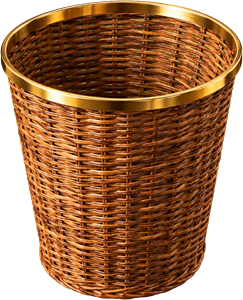
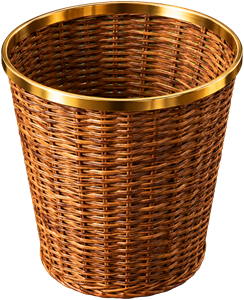
Basket with 0-4 paper pictures and spike moved into the archive bar (72px); basket has a wider touch box, spike only animates

diff --git a/src/components/trash/TrashBin.tsx b/src/components/trash/TrashBin.tsx
@@ -1,86 +1,83 @@
 import React from 'react';
 
-import binImage from '../../assets/bin.png';
+import bin0 from '../../assets/bin.png';
+import bin1 from '../../assets/bin-1.png';
+import bin2 from '../../assets/bin-2.png';
+import bin3 from '../../assets/bin-3.png';
+import bin4 from '../../assets/bin-4.png';
 
 interface TrashBinProps {
   count: number;
   /** Changes every time a card lands in the bin; replays the little bump. */
   bumpKey: number;
   onOpen: () => void;
+  /** Height of the picture in px; the touch box is wider and as tall as the bar. */
+  pictureHeight: number;
   style?: React.CSSProperties;
 }
 
-// The picture is 243 x 300 units. Crumpled paper balls peek out of the mouth,
-// above the front rim, up to three of them.
-const BALLS = [
-  { cx: 92, cy: 48, r: 21 },
-  { cx: 150, cy: 44, r: 22 },
-  { cx: 121, cy: 30, r: 17 },
-];
+// The picture is 244 x 300 units. One picture per number of papers in the
+// basket: empty, one, two, three, four or more.
+const BIN_IMAGES = [bin0, bin1, bin2, bin3, bin4];
 
 /**
- * The waste-paper basket standing on the table. Thrown-away cards fly into it
- * and it fills with crumpled paper; pressing it opens what is inside.
- * `data-trash-bin` lets the throw animation aim at it.
+ * The waste-paper basket standing in the archive bar's left end. Thrown-away
+ * cards fly into it and it fills with crumpled paper; pressing it opens what
+ * is inside. The touch box is wider than the picture and sits above the bar,
+ * so a press near the basket does not open the archive by mistake.
+ * `data-trash-bin` lets the throw animation aim at the picture.
  */
 export const TrashBin: React.FC<TrashBinProps> = ({
   count,
   bumpKey,
   onOpen,
+  pictureHeight,
   style,
 }) => (
   <button
     type="button"
-    data-trash-bin=""
     onClick={onOpen}
     onTouchStart={() => undefined}
     aria-label={count > 0 ? `Корзина: ${count}` : 'Корзина пуста'}
     title="Корзина"
-    className="trash-bin absolute z-30 h-[68px] w-[55px] cursor-pointer border-0 bg-transparent p-0 sm:h-[78px] sm:w-[63px]"
+    className="absolute z-[35] flex cursor-pointer items-center justify-center border-0 bg-transparent p-0"
     style={style}
   >
     <span
       key={bumpKey}
-      className={`block h-full w-full${bumpKey > 0 ? ' trash-bump' : ''}`}
+      data-trash-bin=""
+      className={`trash-bin block${bumpKey > 0 ? ' trash-bump' : ''}`}
+      style={{ height: pictureHeight, width: (pictureHeight * 244) / 300 }}
     >
       <svg
-        viewBox="0 0 243 300"
+        viewBox="0 0 244 300"
         className="h-full w-full overflow-visible"
         aria-hidden="true"
       >
         {/* Contact shadow on the table. */}
-        <ellipse cx="121" cy="292" rx="88" ry="12" fill="rgba(0,0,0,0.4)" />
+        <ellipse cx="122" cy="292" rx="88" ry="12" fill="rgba(0,0,0,0.4)" />
 
-        <image href={binImage} x="0" y="0" width="243" height="300" />
-
-        {BALLS.slice(0, Math.min(count, BALLS.length)).map((ball) => (
-          <g key={`${ball.cx}-${ball.cy}`}>
-            <circle
-              cx={ball.cx}
-              cy={ball.cy}
-              r={ball.r}
-              fill="#EFE6D6"
-              stroke="rgba(90,70,50,0.4)"
-              strokeWidth="2.4"
-            />
-            <path
-              d={`M ${ball.cx - ball.r * 0.6} ${ball.cy - 3} l ${ball.r * 0.5} ${ball.r * 0.4} l ${ball.r * 0.3} -${ball.r * 0.7} l ${ball.r * 0.5} ${ball.r * 0.5}`}
-              fill="none"
-              stroke="rgba(90,70,50,0.45)"
-              strokeWidth="2.4"
-              strokeLinejoin="round"
-            />
-          </g>
+        {/* All the pictures stay loaded; the one for the count shows. */}
+        {BIN_IMAGES.map((image, index) => (
+          <image
+            key={index}
+            href={image}
+            x="0"
+            y="0"
+            width="244"
+            height="300"
+            opacity={index === Math.min(count, BIN_IMAGES.length - 1) ? 1 : 0}
+          />
         ))}
 
         {count > 0 && (
           <g>
-            <circle cx="205" cy="246" r="34" fill="#F7F2E8" stroke="rgba(60,45,30,0.4)" strokeWidth="2.5" />
+            <circle cx="206" cy="244" r="46" fill="#F7F2E8" stroke="rgba(60,45,30,0.45)" strokeWidth="3" />
             <text
-              x="205"
-              y="259"
+              x="206"
+              y="260"
               textAnchor="middle"
-              fontSize="38"
+              fontSize="52"
               fontWeight="700"
               fill="#3F3932"
               fontFamily="Lora, Georgia, serif"

diff --git a/src/components/table/CouponSpike.tsx b/src/components/table/CouponSpike.tsx
@@ -7,7 +7,8 @@ interface CouponSpikeProps {
   slipPapers: string[];
   /** Changes every time a coupon lands on the spike; replays the bump. */
   bumpKey: number;
-  onOpen: () => void;
+  /** Height of the picture in px. */
+  pictureHeight: number;
   style?: React.CSSProperties;
 }
 
@@ -26,32 +27,32 @@ const SLIP_HEIGHT = 30;
 /**
  * A brass receipt spike standing on the table, opposite the waste basket.
  * Every coupon torn off today is speared on it in its card's colour, so the
- * day's work piles up visibly; pressing it opens the archive.
+ * day's work piles up visibly. It stands in the archive bar's right end and
+ * takes no presses itself: the bar under it opens the archive.
  * `data-coupon-spike` lets the flying coupon aim at it.
  */
 export const CouponSpike: React.FC<CouponSpikeProps> = ({
   slipPapers,
   bumpKey,
-  onOpen,
+  pictureHeight,
   style,
 }) => {
   const count = slipPapers.length;
   const slips = slipPapers.slice(0, MAX_SLIPS).reverse();
 
   return (
-    <button
-      type="button"
+    <div
       data-coupon-spike=""
-      onClick={onOpen}
-      onTouchStart={() => undefined}
+      role="img"
       aria-label={
-        count > 0
-          ? `Сегодня выполнено: ${count}. Открыть архив`
-          : 'Сегодня ещё ничего. Открыть архив'
+        count > 0 ? `Сегодня выполнено: ${count}` : 'Сегодня ещё ничего'
       }
-      title="Сделано сегодня"
-      className="trash-bin absolute z-30 h-[92px] w-[45px] cursor-pointer border-0 bg-transparent p-0 sm:h-[104px] sm:w-[51px]"
-      style={style}
+      className="trash-bin pointer-events-none absolute z-[35]"
+      style={{
+        height: pictureHeight,
+        width: (pictureHeight * 224) / 460,
+        ...style,
+      }}
     >
       <span
         key={bumpKey}
@@ -103,12 +104,12 @@ export const CouponSpike: React.FC<CouponSpikeProps> = ({
 
           {count > 0 && (
             <g>
-              <circle cx="186" cy="396" r="36" fill="#F7F2E8" stroke="rgba(60,45,30,0.4)" strokeWidth="2.5" />
+              <circle cx="176" cy="392" r="58" fill="#F7F2E8" stroke="rgba(60,45,30,0.4)" strokeWidth="2.5" />
               <text
-                x="186"
-                y="409"
+                x="176"
+                y="414"
                 textAnchor="middle"
-                fontSize="40"
+                fontSize="72"
                 fontWeight="700"
                 fill="#3F3932"
                 fontFamily="Lora, Georgia, serif"
@@ -119,6 +120,6 @@ export const CouponSpike: React.FC<CouponSpikeProps> = ({
           )}
         </svg>
       </span>
-    </button>
+    </div>
   );
 };

diff --git a/src/app/MainApp.tsx b/src/app/MainApp.tsx
@@ -1767,17 +1767,6 @@ const MainApp: React.FC = () => {
         </div>
       </div>
 
-      {/* The basket stands on the table, in the corner just above the edge. */}
-      <TrashBin
-        // The paper that is still in the air is not in the basket yet.
-        count={Math.max(
-          0,
-          trash.length - (transientOutgoing?.kind === 'trash' ? 1 : 0),
-        )}
-        bumpKey={trashBumpKey}
-        onOpen={() => setIsTrashOpen(true)}
-        style={{ left: 12, bottom: ARCHIVE_NAVIGATION_HEIGHT + 12 }}
-      />
 
       <DetachedCompletionCoupon
         ref={detachedCouponLayerRef}
@@ -1805,19 +1794,32 @@ const MainApp: React.FC = () => {
         glintKey={spikeBumpKey}
       />
 
+      {/* The basket stands in the left end of the archive bar. */}
+      <TrashBin
+        // The paper that is still in the air is not in the basket yet.
+        count={Math.max(
+          0,
+          trash.length - (transientOutgoing?.kind === 'trash' ? 1 : 0),
+        )}
+        bumpKey={trashBumpKey}
+        onOpen={() => setIsTrashOpen(true)}
+        // In the bar's left end; the touch box is wider than the picture.
+        pictureHeight={ARCHIVE_NAVIGATION_HEIGHT - 20}
+        style={{ left: 0, bottom: 0, width: 84, height: ARCHIVE_NAVIGATION_HEIGHT }}
+      />
+
       {/* The day's torn coupons on their brass spike in the corner opposite the
           basket: they land here, and pressing it opens the archive. */}
       <CouponSpike
         slipPapers={todaySlipPapers}
         bumpKey={spikeBumpKey}
-        onOpen={() => setIsArchiveOpen(true)}
+        pictureHeight={ARCHIVE_NAVIGATION_HEIGHT - 16}
         style={{
-          // Opposite the basket: in the right corner, just above the bar.
-          right: 14,
-          bottom: ARCHIVE_NAVIGATION_HEIGHT + 12,
-          zIndex: 35,
+          // Opposite the basket: in the bar's right end. It is only looked at;
+          // the bar under it takes the press.
+          right: 20,
+          bottom: 4,
           opacity: isArchiveOpen ? 0 : 1,
-          pointerEvents: isArchiveOpen ? 'none' : 'auto',
           transition: 'opacity 200ms ease-out',
         }}
       />

diff --git a/src/components/archive/ArchiveNavigation.tsx b/src/components/archive/ArchiveNavigation.tsx
@@ -11,7 +11,7 @@ interface ArchiveNavigationProps {
   glintKey?: number;
 }
 
-export const ARCHIVE_NAVIGATION_HEIGHT = 56;
+export const ARCHIVE_NAVIGATION_HEIGHT = 72;
 
 const NAV_SURFACE_TRANSITION = {
   duration: 0.22,
@@ -91,7 +91,7 @@ export const ArchiveNavigation: React.FC<ArchiveNavigationProps> = ({
           exit={{ opacity: 0, y: -8 }}
           transition={{ duration: 0.3 }}
           data-text={isArchiveOpen ? 'Главный экран' : 'Архив'}
-          className={`foil-text foil-text--sweep${isArchiveOpen ? ' foil-text--on-dark' : ''} relative z-10 text-[27px] leading-none`}
+          className={`foil-text foil-text--sweep${isArchiveOpen ? ' foil-text--on-dark' : ''} relative z-10 leading-none ${isArchiveOpen ? 'text-[20px]' : 'text-[27px]'}`}
         >
           {isArchiveOpen ? 'Главный экран' : 'Архив'}
         </motion.span>
